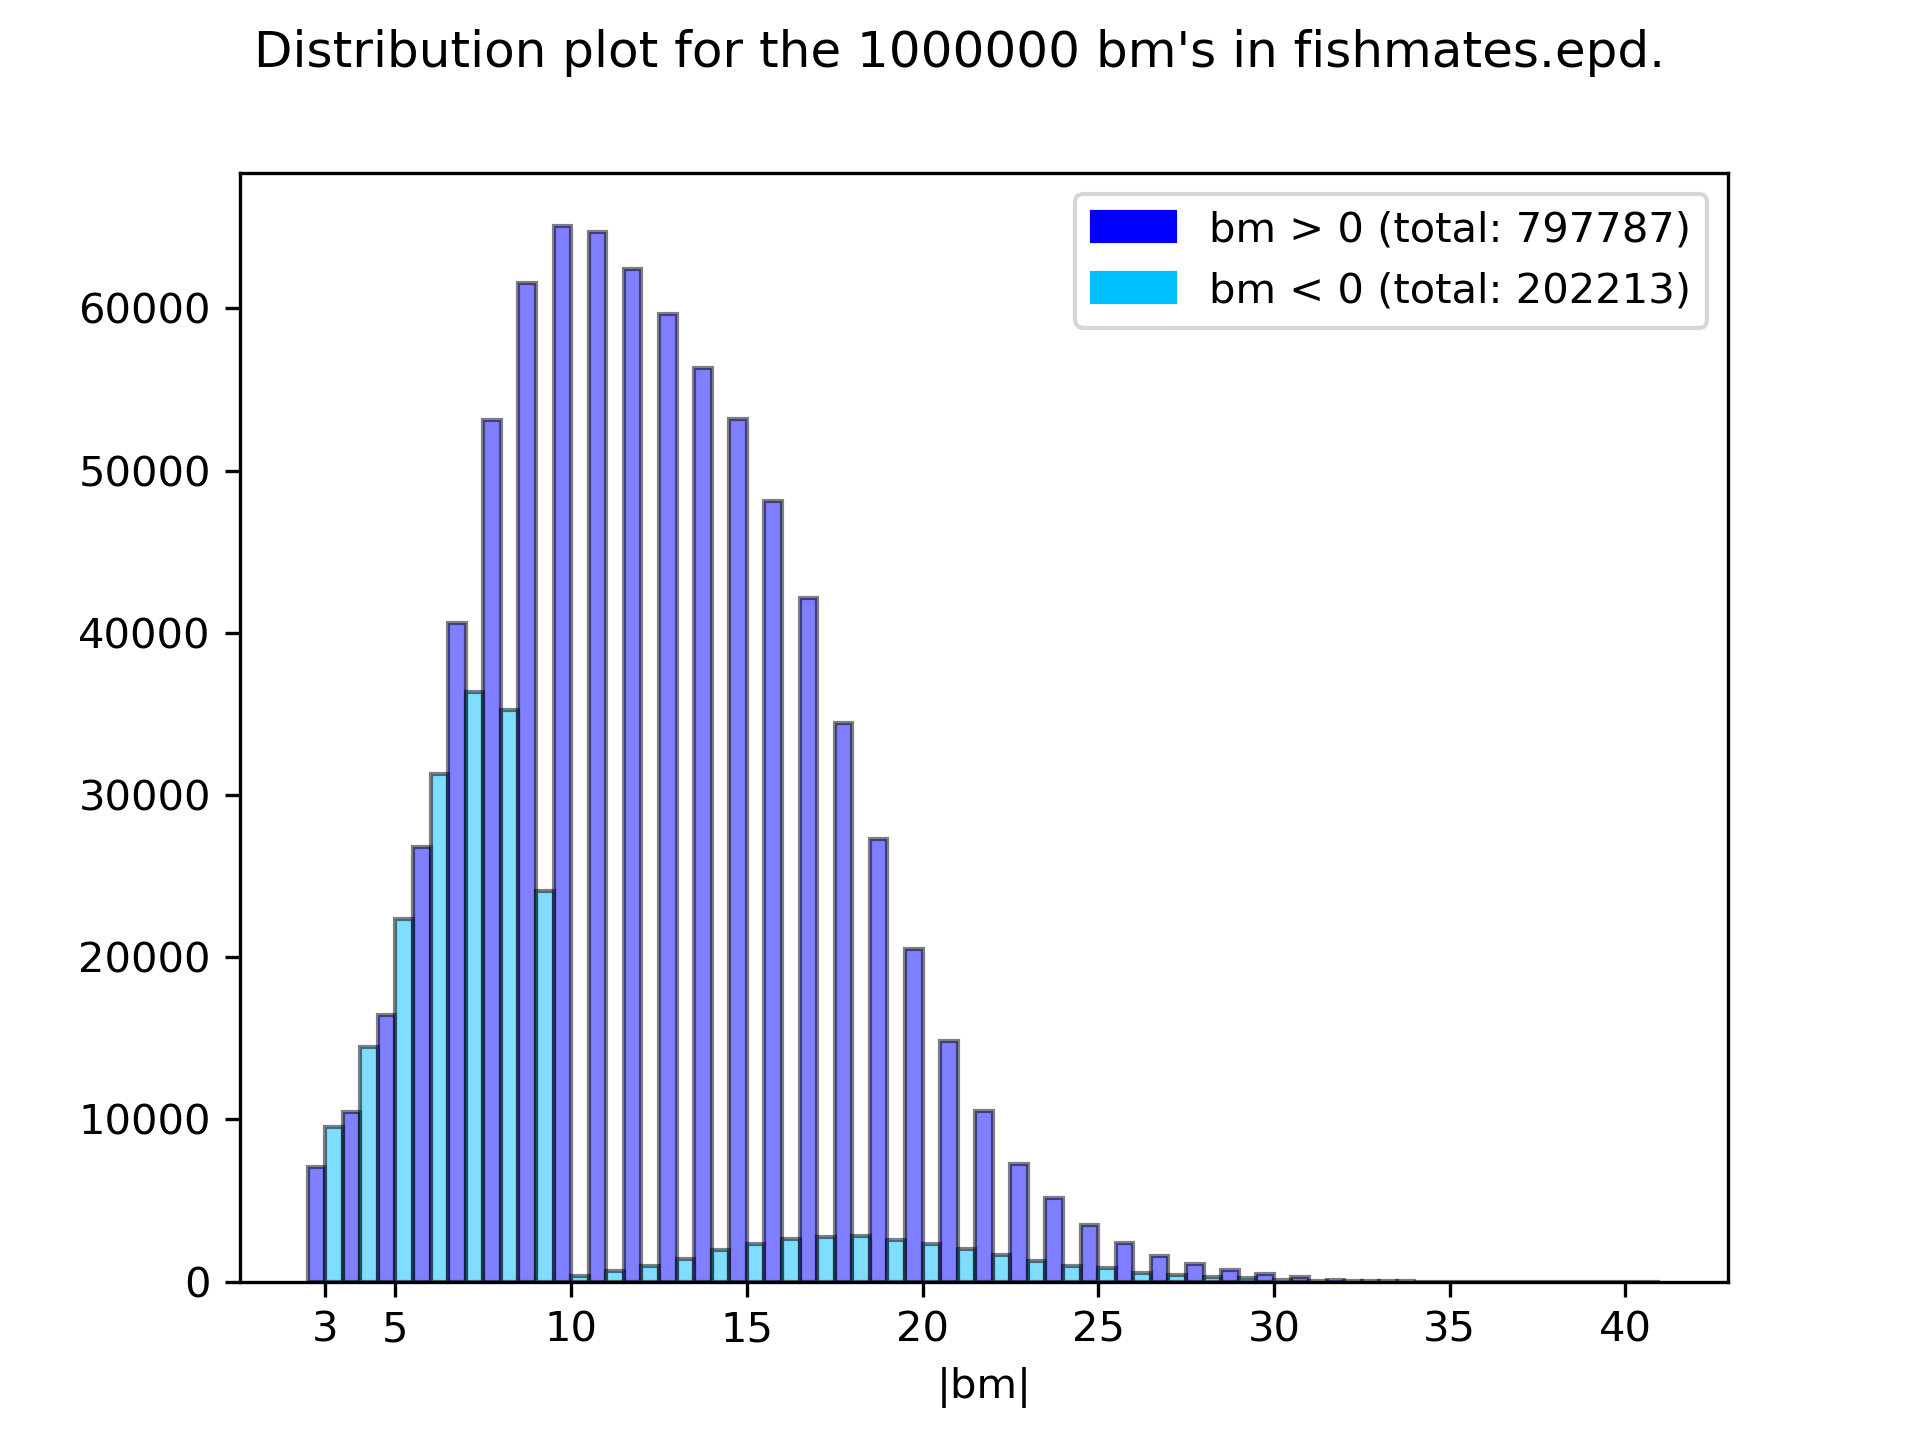
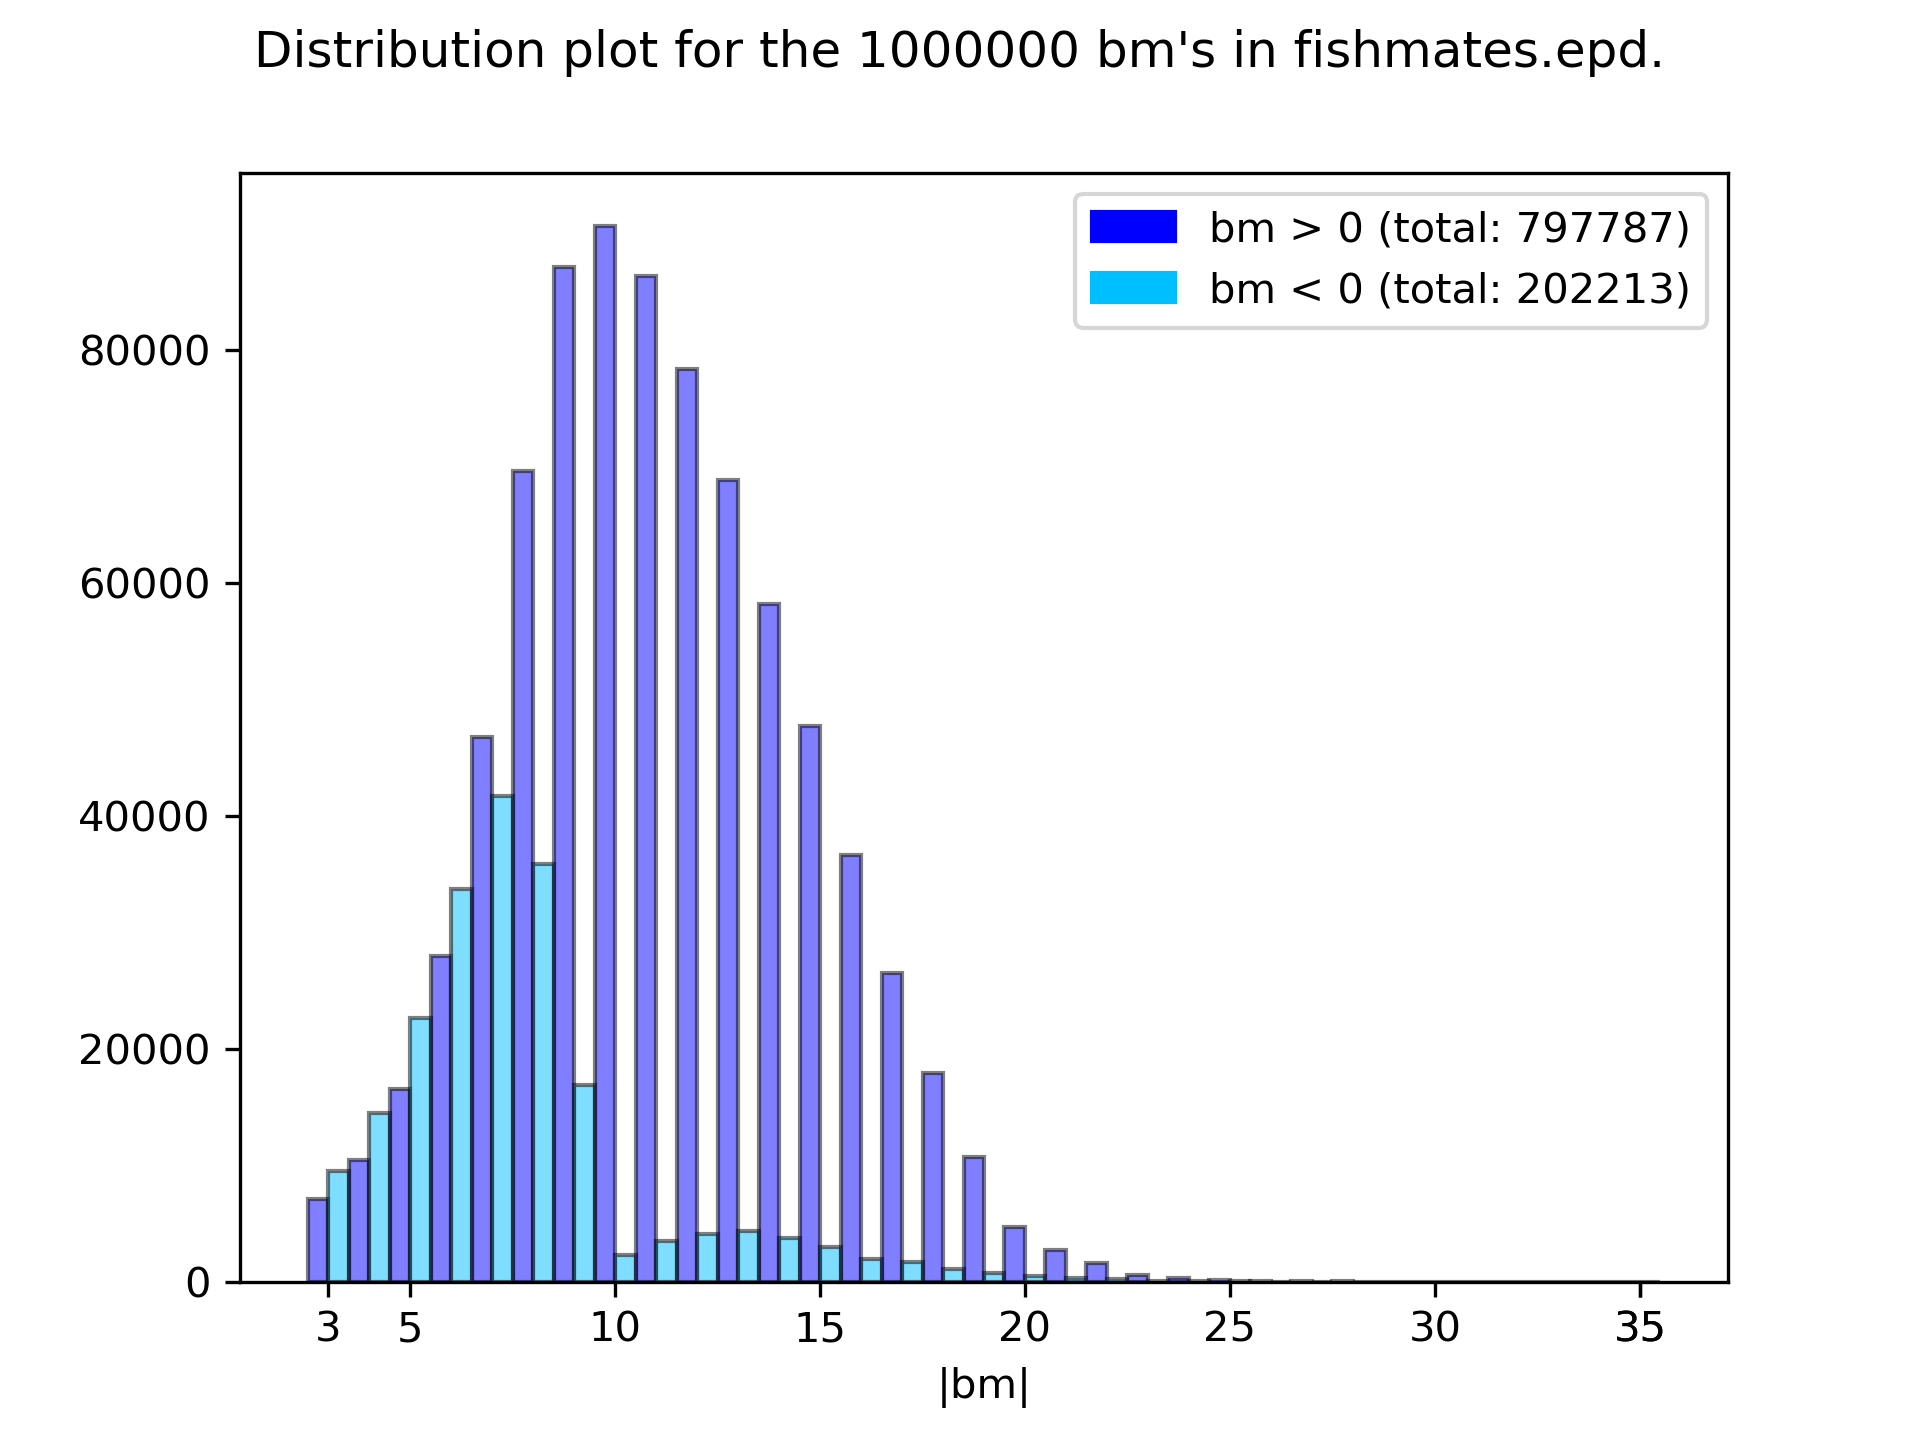
improve/shorten the mates in fishmates.epd.gz (#85)

diff --git a/Readme.md b/Readme.md
@@ -50,11 +50,11 @@ See [plot](images/matedtrack.png?raw=true).
 * `mate-in-2.epd`: A collection of 6332 `bm #2` puzzles derived from `matetrackpv.epd`. The positions have between 3 and 32 pieces.
 * `mates2000.epd`: A smaller test suite with 2000 positions ranging from #1 to #27 used as part of the CI workflow for [Stockfish](https://github.com/official-stockfish/Stockfish). It contains positions with between 4 and 32 pieces, and in 1105 positions the side to move is going to get mated.
 See [plot](images/mates2000.png?raw=true).
-* `fishmates.epd.gz`: A collection of 1M mates from LTC fishtest games, ranging from #3 to #41. The positions have between 6 and 31 pieces, and in 202213 positions the side to move is going to get mated.
+* `fishmates.epd.gz`: A collection of 1M mates from LTC fishtest games, ranging from #3 to #35. The positions have between 6 and 31 pieces, and in 202213 positions the side to move is going to get mated.
 See [plot](images/fishmates.png?raw=true). 
-Note: Many of the `bm` values at present are only upper bounds for the fastest
+Note: Some of the `bm` values at present are only upper bounds for the fastest
 possible mate, 
-see [WIP](https://github.com/robertnurnberg/matetools/pull/85) for improvements.
+see [WIP](https://github.com/robertnurnberg/matetools/pull/86) for improvements.
 
 ### Automatic creation of new test positions
 
